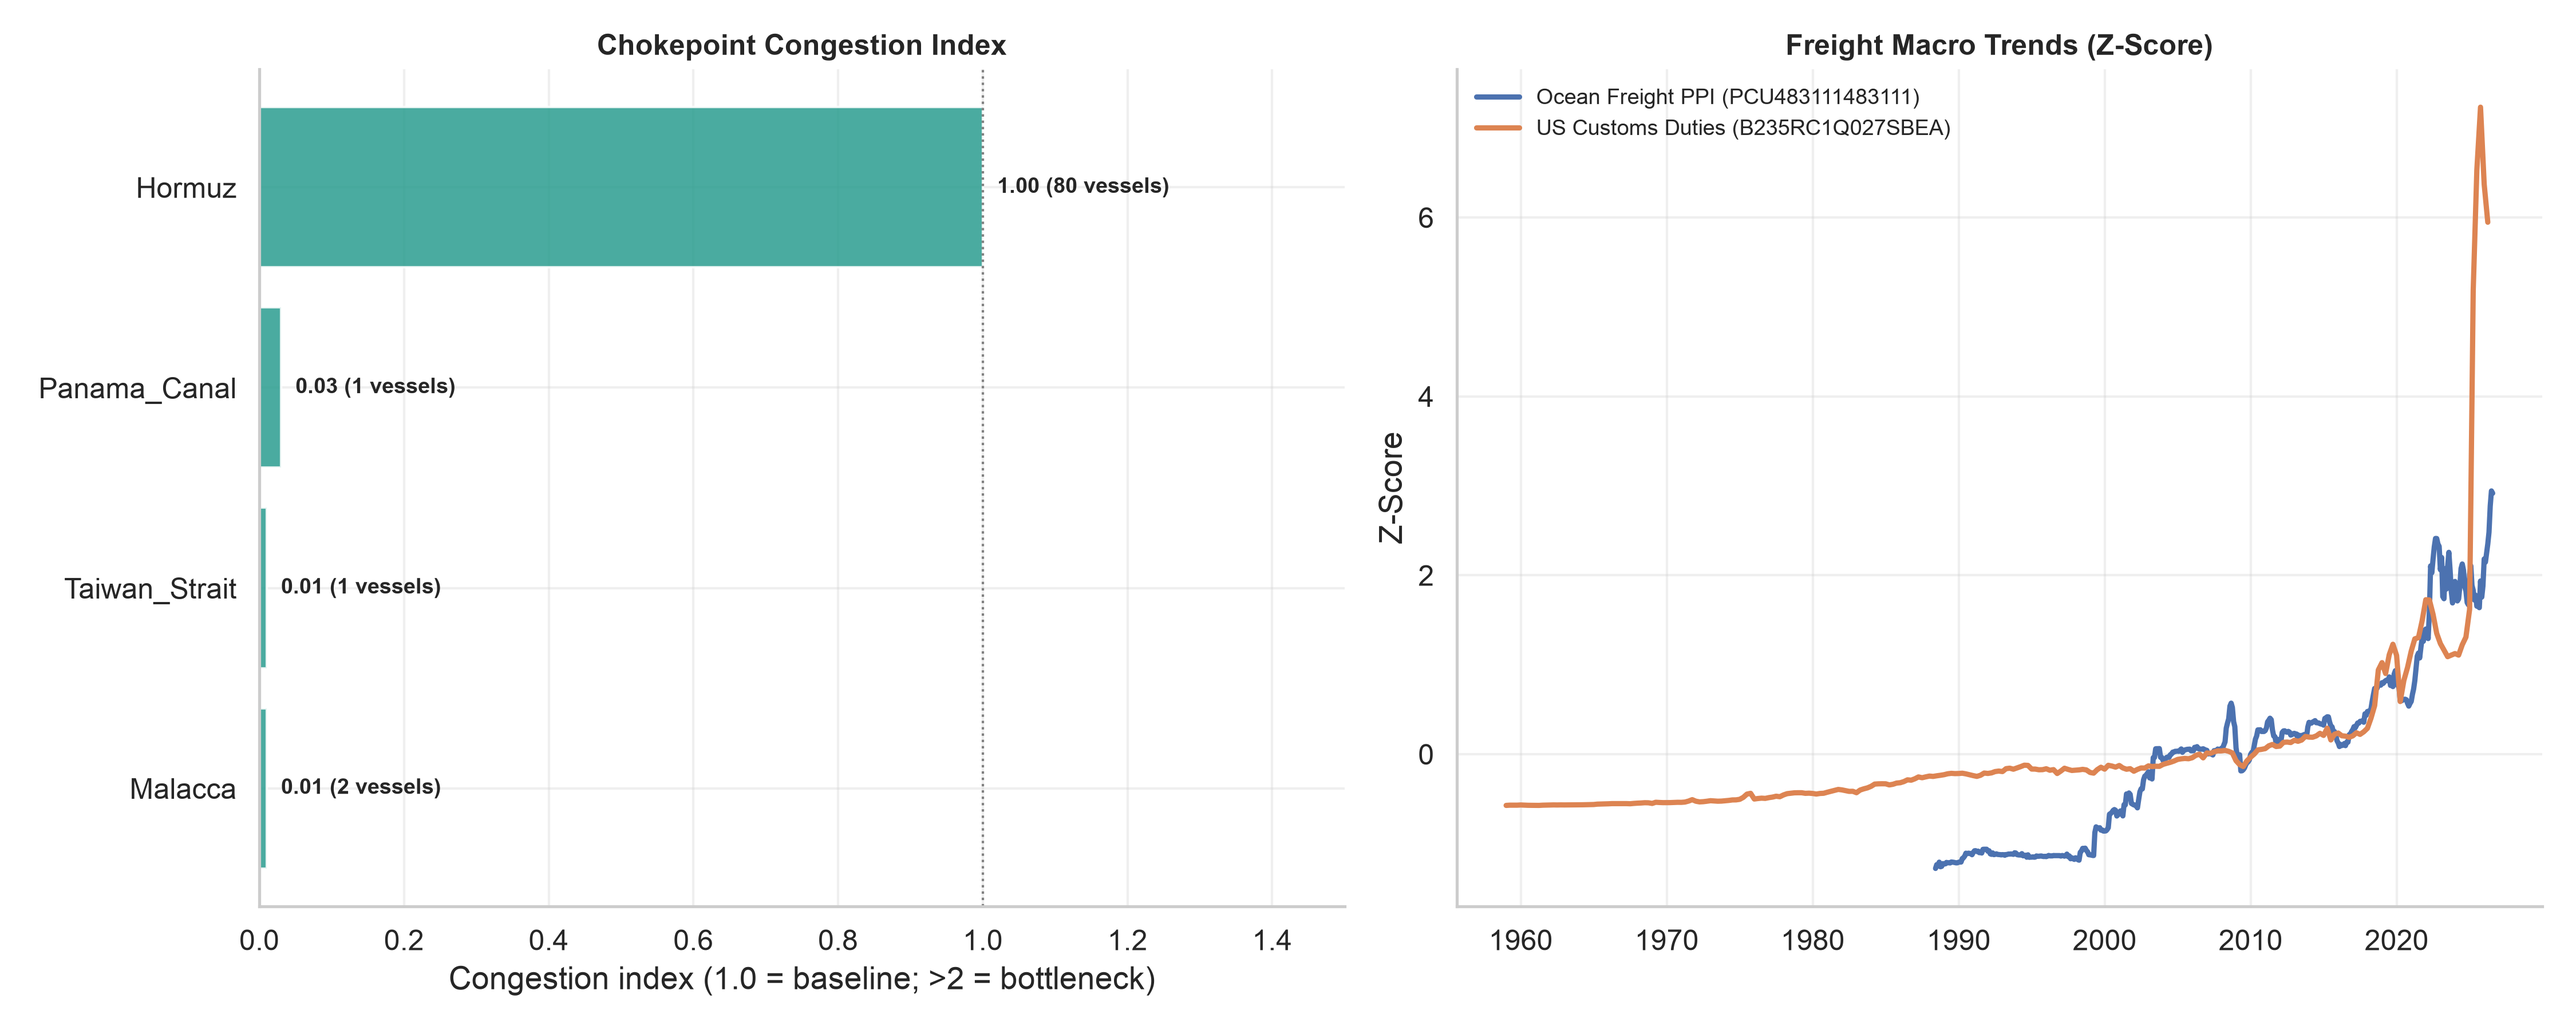
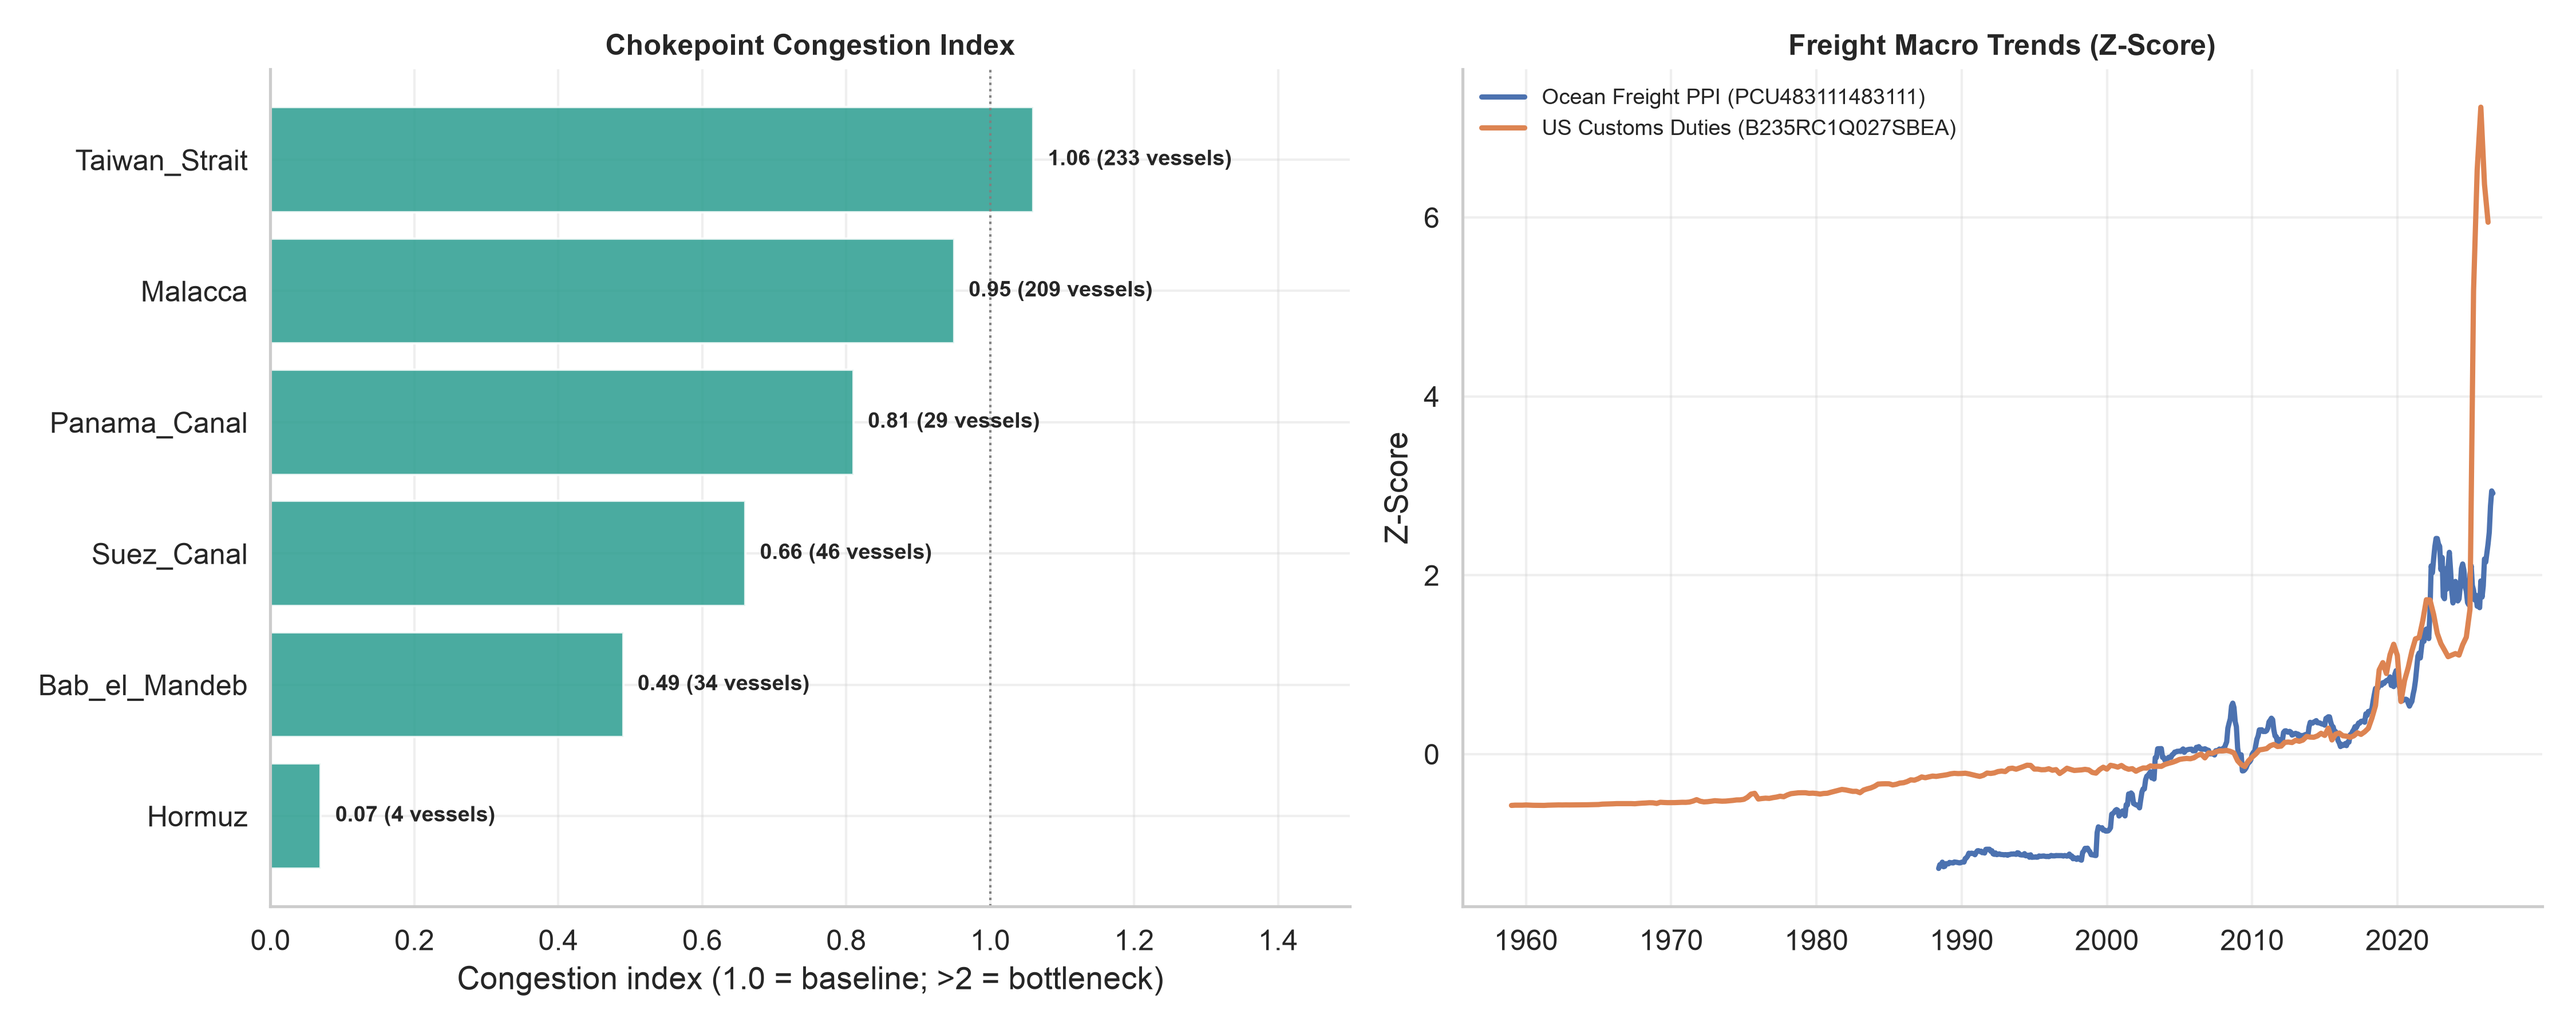
Auto-update shipping metrics and regenerated macro reports

diff --git a/reports/news/MACRO_REPORT.md b/reports/news/MACRO_REPORT.md
@@ -10,31 +10,23 @@ spreads and ratios.*
 
 ## Alerts
 - ⚠ **FREIGHT_PPI** at 518.62 is +2.7σ from its 5-year mean (97th percentile).
-- ⏳ **CORN_PRICE** stale: last observation 2026-07-01 (103d; typical cadence 31d).
-- ⏳ **WHEAT_PRICE** stale: last observation 2026-07-01 (103d; typical cadence 31d).
-- ⏳ **SUGAR_PRICE** stale: last observation 2026-07-01 (103d; typical cadence 31d).
-- ⏳ **NAT_GAS_PRICE** stale: last observation 2026-07-01 (103d; typical cadence 31d).
-- ⚠ **COPPER_PRICE** at 13,542.82 is +2.5σ from its 5-year mean (96th percentile).
-- ⏳ **COPPER_PRICE** stale: last observation 2026-07-01 (103d; typical cadence 31d).
 - ⚠ **ELECTRIC_POWER_INDEX** at 118.75 is +2.0σ from its 5-year mean (98th percentile).
 - 🚨 **RD_INVESTMENT**: latest move +23.42 is 2.8σ of its 5Y move distribution (now 950.52, 2026-04-01).
 - 🚨 **HOUSEHOLD_NET_WORTH**: latest move +12803400.00 is 3.0σ of its 5Y move distribution (now 195,870,496.00, 2026-04-01).
 - ⚠ **HOUSEHOLD_NET_WORTH** at 195,870,496.00 is +2.1σ from its 5-year mean (94th percentile).
 - 🚨 **GDP**: latest move +656.76 is 5.7σ of its 5Y move distribution (now 32,563.03, 2026-04-01).
-- ⚠ **M2_MONEY** at 23,342.80 is +2.5σ from its 5-year mean (98th percentile).
-- ⏳ **GLOBAL_POLICY_UNCERTAINTY** stale: last observation 2026-07-01 (103d; typical cadence 31d).
 
 ## Most Extreme vs 5-Year History
 | Indicator            |         Latest |   5Y Z |   pct | Δ3M     | 3M   |
 |----------------------|----------------|--------|-------|---------|------|
 | FREIGHT_PPI          |   518.62       |    2.7 |    97 | +9.2%   | ↑    |
-| M2_MONEY             | 23342.8        |    2.5 |    98 | +1.4%   | ↑    |
-| COPPER_PRICE         | 13542.8        |    2.5 |    96 | +5.1%   | ↑    |
 | HOUSEHOLD_NET_WORTH  |     1.9587e+08 |    2.1 |    94 | +7.0%   | ↑    |
 | ELECTRIC_POWER_INDEX |   118.75       |    2   |    98 | +2.5%   | ↑    |
 | RD_INVESTMENT        |   950.52       |    2   |    94 | +2.5%   | ↑    |
 | GDP                  | 32563          |    1.7 |    94 | +2.1%   | ↑    |
 | US30Y                |     5.6        |    1.7 |    99 | +0.54pp | →    |
+| US10Y                |     5.22       |    1.6 |    99 | +0.66pp | ↑    |
+| TRUCK_PPI            |   207.64       |    1.6 |    91 | +2.0%   | ↑    |
 
 ## Regime Dashboard (5-Year)
 ![Regime 5Y](rendered/macro_regime_5yr.png)
@@ -112,29 +104,23 @@ right rebases commodities and the dollar to 100 at the window start.
 | FED_ASSETS             |  6.74756e+06 | +0.2%   | +0.3%   | +2.4%   |   -1   |       30 | →    | 2026-10-07 |
 
 ### Commodities & FX
-| Indicator        |   Latest | Δ1M    | Δ3M    | Δ1Y    |   5Y Z |   5Y pct | 3M   | As of      |
-|------------------|----------|--------|--------|--------|--------|----------|------|------------|
-| WTI_CRUDE        |    96.24 | +3.8%  | +38.3% | +54.0% |    1.2 |       87 | ↑    | 2026-10-06 |
-| NAT_GAS_PRICE ⏳ |     2.96 | -7.6%  | +10.5% | -10.5% |   -0.5 |       39 | ↑    | 2026-07-01 |
-| COPPER_PRICE ⏳  | 13542.8  | -0.1%  | +5.1%  | +38.6% |    2.5 |       96 | ↑    | 2026-07-01 |
-| CORN_PRICE ⏳    |   213.19 | +8.9%  | -0.6%  | +10.8% |   -0.5 |       47 | ↓    | 2026-07-01 |
-| WHEAT_PRICE ⏳   |   228.74 | +14.6% | +12.9% | +38.4% |   -0.2 |       56 | ↑    | 2026-07-01 |
-| SUGAR_PRICE ⏳   |    14.81 | +6.5%  | +5.1%  | -9.5%  |   -1.3 |       12 | ↑    | 2026-07-01 |
-| USD_INDEX        |   121.38 | +2.4%  | +0.6%  | +0.8%  |    0.1 |       62 | →    | 2026-10-02 |
-| USD_CNY          |     6.7  | -0.2%  | -1.3%  | -5.8%  |   -1   |       14 | →    | 2026-10-01 |
-| USD_EUR          |     1.13 | -2.9%  | -1.7%  | -3.7%  |    0.5 |       64 | →    | 2026-10-02 |
-| USD_JPY          |   157.81 | -0.6%  | -1.9%  | +7.1%  |    1.1 |       88 | →    | 2026-10-02 |
+| Indicator   |   Latest | Δ1M   | Δ3M    | Δ1Y    |   5Y Z |   5Y pct | 3M   | As of      |
+|-------------|----------|-------|--------|--------|--------|----------|------|------------|
+| WTI_CRUDE   |    96.24 | +3.8% | +38.3% | +54.0% |    1.2 |       87 | ↑    | 2026-10-06 |
+| USD_INDEX   |   121.38 | +2.4% | +0.6%  | +0.8%  |    0.1 |       62 | →    | 2026-10-02 |
+| USD_CNY     |     6.7  | -0.2% | -1.3%  | -5.8%  |   -1   |       14 | →    | 2026-10-01 |
+| USD_EUR     |     1.13 | -2.9% | -1.7%  | -3.7%  |    0.5 |       64 | →    | 2026-10-02 |
+| USD_JPY     |   157.81 | -0.6% | -1.9%  | +7.1%  |    1.1 |       88 | →    | 2026-10-02 |
 
 ### Policy & Trade
-| Indicator                    |   Latest | Δ1M    | Δ3M    | Δ1Y    |   5Y Z |   5Y pct | 3M   | As of      |
-|------------------------------|----------|--------|--------|--------|--------|----------|------|------------|
-| US_POLICY_UNCERTAINTY        |   242.69 | -50.0% | -8.8%  | +5.3%  |    0.2 |       68 | →    | 2026-10-11 |
-| GLOBAL_POLICY_UNCERTAINTY ⏳ |   241.69 | -14.5% | -29.4% | -39.8% |   -0.4 |       44 | ↓    | 2026-07-01 |
-| EUROPE_POLICY_UNCERTAINTY    |   358.52 | +2.2%  | -9.4%  | -23.9% |   -0.1 |       54 | ↓    | 2026-09-01 |
-| TARIFFS                      |   306.4  | -6.1%  | -6.1%  | +13.2% |    1.4 |       78 | ↓    | 2026-04-01 |
-| CHINA_IMPORTS                | 27133.8  | +0.2%  | +15.4% | +6.9%  |   -0.8 |       28 | ↑    | 2026-08-01 |
-| TECH_PULSE                   |    96.05 | -0.8%  | +0.1%  | +2.1%  |    0.8 |       76 | →    | 2026-08-01 |
-| RD_INVESTMENT                |   950.52 | +2.5%  | +2.5%  | +12.2% |    2   |       94 | ↑    | 2026-04-01 |
+| Indicator                 |   Latest | Δ1M    | Δ3M    | Δ1Y    |   5Y Z |   5Y pct | 3M   | As of      |
+|---------------------------|----------|--------|--------|--------|--------|----------|------|------------|
+| US_POLICY_UNCERTAINTY     |   242.69 | -50.0% | -8.8%  | +5.3%  |    0.2 |       68 | →    | 2026-10-11 |
+| EUROPE_POLICY_UNCERTAINTY |   358.52 | +2.2%  | -9.4%  | -23.9% |   -0.1 |       54 | ↓    | 2026-09-01 |
+| TARIFFS                   |   306.4  | -6.1%  | -6.1%  | +13.2% |    1.4 |       78 | ↓    | 2026-04-01 |
+| CHINA_IMPORTS             | 27133.8  | +0.2%  | +15.4% | +6.9%  |   -0.8 |       28 | ↑    | 2026-08-01 |
+| TECH_PULSE                |    96.05 | -0.8%  | +0.1%  | +2.1%  |    0.8 |       76 | →    | 2026-08-01 |
+| RD_INVESTMENT             |   950.52 | +2.5%  | +2.5%  | +12.2% |    2   |       94 | ↑    | 2026-04-01 |
 
 ### Logistics & Power
 | Indicator            |    Latest | Δ1M   | Δ3M   | Δ1Y    |   5Y Z |   5Y pct | 3M   | As of      |
@@ -155,10 +141,3 @@ right rebases commodities and the dollar to 100 at the window start.
 | LIFE_EXPECTANCY |     78.89 | +0.6%   | +0.6%   | +0.6%   | —      | —        | ↑    | 2024-01-01 |
 
 </details>
-
-### Other
-| Indicator   |   Latest | Δ1M   | Δ3M   | Δ1Y   |   5Y Z |   5Y pct | 3M   | As of      |
-|-------------|----------|-------|-------|-------|--------|----------|------|------------|
-| FOOD_CPI    |   350.42 | +0.1% | +0.4% | +2.7% |    1.4 |       98 | →    | 2026-08-01 |
-| M2_MONEY    | 23342.8  | +0.5% | +1.4% | +5.7% |    2.5 |       98 | ↑    | 2026-08-01 |
-| CPI         |   334.13 | +0.4% | +0.0% | +3.4% |    1.6 |       98 | →    | 2026-08-01 |

diff --git a/reports/news/SHIPPING_REPORT.md b/reports/news/SHIPPING_REPORT.md
@@ -1,10 +1,10 @@
 # Maritime Shipping Report
 
 ## Overview
-This report monitors global maritime chokepoints (Strait of Hormuz, Malacca Strait, Panama Canal, Taiwan Strait) and macroeconomic freight indicators to track supply chain bottlenecks, tanker availability, and logistical disruptions.
+This report monitors global maritime chokepoints (Strait of Hormuz, Malacca Strait, Suez Canal, Bab el-Mandeb, Panama Canal, Taiwan Strait) and macroeconomic freight indicators to track supply chain bottlenecks, tanker availability, and logistical disruptions.
 
-> [!WARNING]
-> Chokepoint counts come from a ~20-second AISStream sample and fall back to a static baseline (index 1.0) when the sample is empty, so most rows are placeholders. Treat this section as a plumbing demo until a real source (IMF PortWatch daily transits, NY Fed GSCPI, Freightos FBX) is wired in.
+> [!NOTE]
+> Chokepoint transit counts and congestion indices are sourced from IMF PortWatch daily transit calls data (covering Hormuz, Malacca, Suez, Bab el-Mandeb, Panama, and Taiwan Strait). Baseline indices reflect normalized pre-disruption transit volume (1.0 = normal baseline).
 
 ## Congestion Trends
 ![Congestion Timeline](rendered/shipping_timeline.png)
@@ -12,10 +12,12 @@ This report monitors global maritime chokepoints (Strait of Hormuz, Malacca Stra
 ## Chokepoint Status
 | Chokepoint    |   Vessels |   Congestion Index |
 |---------------|-----------|--------------------|
-| Malacca       |         2 |               0.01 |
-| Taiwan_Strait |         1 |               0.01 |
-| Panama_Canal  |         1 |               0.03 |
-| Hormuz        |        80 |               1    |
+| Hormuz        |         4 |               0.07 |
+| Bab_el_Mandeb |        34 |               0.49 |
+| Suez_Canal    |        46 |               0.66 |
+| Panama_Canal  |        29 |               0.81 |
+| Malacca       |       209 |               0.95 |
+| Taiwan_Strait |       233 |               1.06 |
 
 ## Shipping Macro Metrics
 | Metric                              |   Latest | YoY Chg       | Date       |
